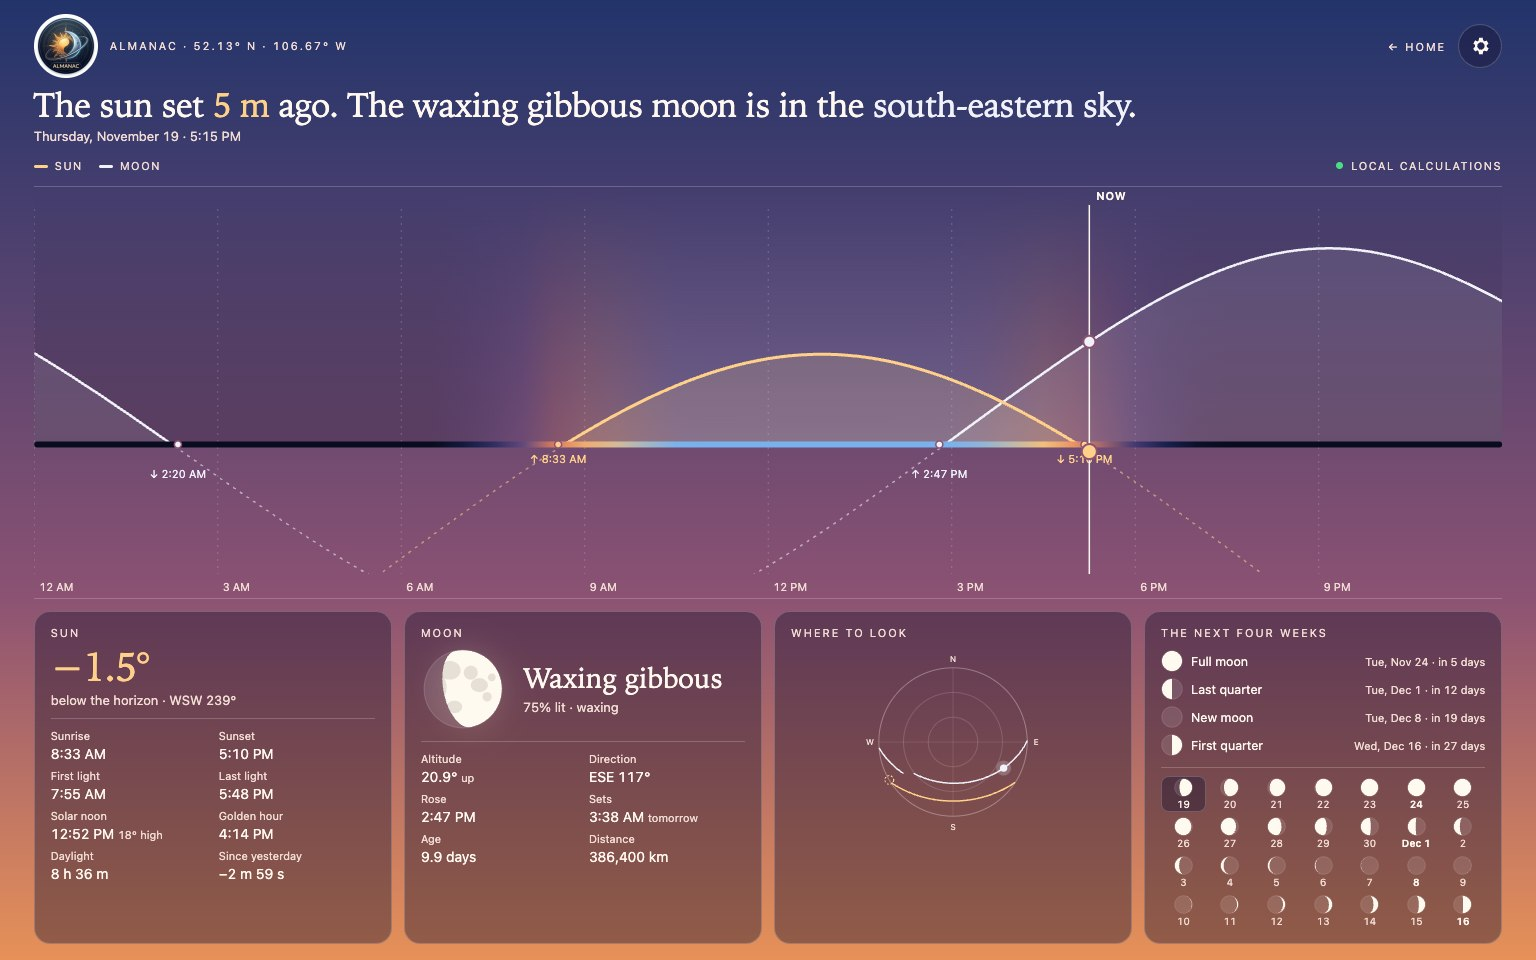
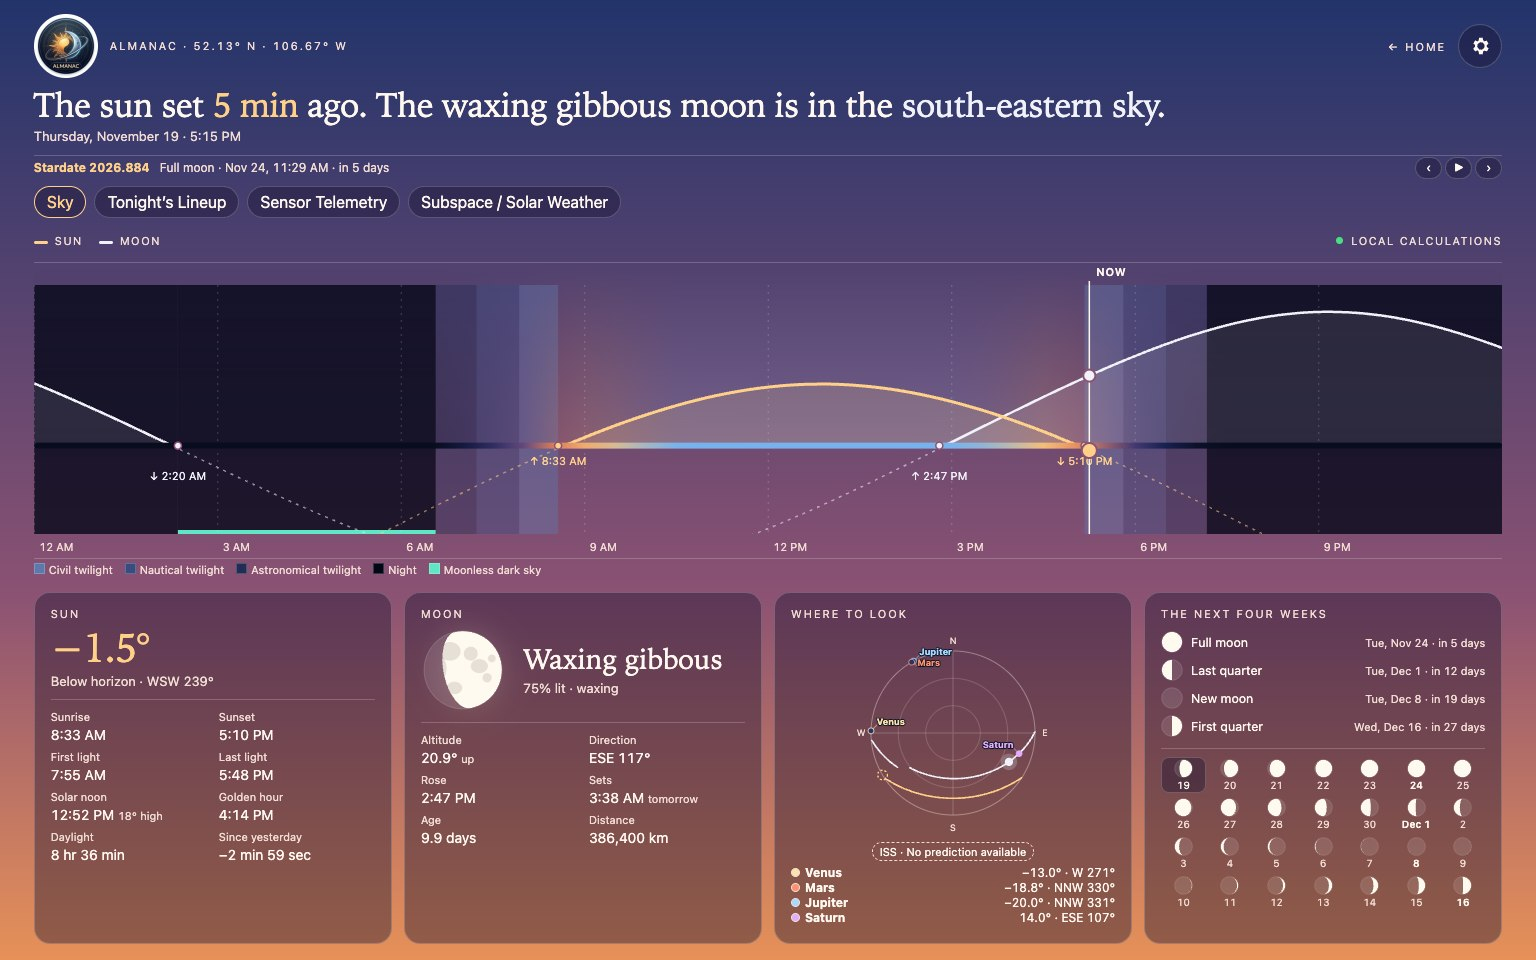
Refresh README screenshots for all eight Almanac themes

diff --git a/README.md b/README.md
@@ -17,7 +17,7 @@ A local sun and moon integration for Home Assistant, with continuously updated s
 
 ## Theme gallery
 
-Choose a theme with the gear on the card. These previews show the same sunset in Saskatoon so you can compare palettes. Select an image to see it full size.
+Choose a theme with the gear on the card. These Almanac v2.10.1 screenshots show the same sunset in Saskatoon so you can compare palettes. The preview uses local calculations. Select an image to see it full size.
 
 ### Star Trek
 
